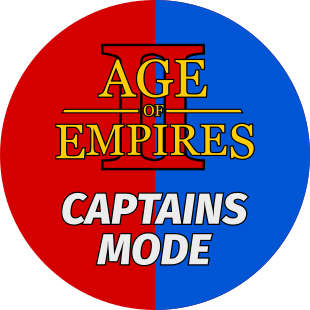
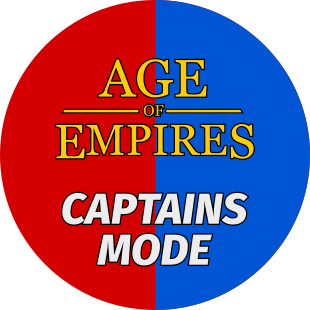
Offer AoE3 and AoE4 civs for presets

diff --git a/src/components/PresetEditor/PresetEditor.tsx b/src/components/PresetEditor/PresetEditor.tsx
@@ -26,6 +26,8 @@ import DraftOption from "../../models/DraftOption";
 import PresetEditorCivSelection from "./PresetEditorCivSelection";
 import PresetEditorCustomOptions from "./PresetEditorCustomOptions";
 import Civilisation from "../../models/Civilisation";
+import Aoe3Civilisation from "../../models/Aoe3Civilisation";
+import Aoe4Civilisation from "../../models/Aoe4Civilisation";
 
 interface Props extends WithTranslation{
     preset: Preset | null,
@@ -36,7 +38,16 @@ interface Props extends WithTranslation{
     onPresetDraftOptionsChange: (value: DraftOption[]) => ISetEditorDraftOptions
 }
 
-class PresetEditor extends React.Component<Props, object> {
+interface State {
+    defaultDraftOptions: DraftOption[]
+}
+
+class PresetEditor extends React.Component<Props, State> {
+
+    constructor(props: Props) {
+        super(props);
+        this.state = {defaultDraftOptions: Civilisation.ALL};
+    }
 
     componentDidMount(): void {
         if (this.props.preset === null || this.props.preset === undefined) {
@@ -56,8 +67,8 @@ class PresetEditor extends React.Component<Props, object> {
                               className="columns is-mobile preset-editor-row"
                               onValueChange={this.props.onValueChange} key={turn.id}/>);
 
-        const customOptions: boolean = !this.props.preset.encodedCivilisations;
-        let optionsSelection = customOptions ? <PresetEditorCustomOptions/> : <PresetEditorCivSelection/>;
+        const customOptions: boolean = this.state.defaultDraftOptions.length === 0;
+        let optionsSelection = customOptions ? <PresetEditorCustomOptions/> : <PresetEditorCivSelection availableOptions={this.state.defaultDraftOptions}/>;
 
         return (
             <React.Fragment>
@@ -65,20 +76,29 @@ class PresetEditor extends React.Component<Props, object> {
                     <h3>1. <Trans i18nKey="presetEditor.availableDraftOptions">Available Draft Options</Trans></h3>
 
                     <p className="control">
-                        <input id="toggleCustomDraftOptions" type="checkbox" name="toggleCustomDraftOptions"
-                               className="switch is-small is-rounded is-info" checked={!customOptions} onChange={() => {
-                            if (customOptions) {
-                                this.props.onPresetDraftOptionsChange(Civilisation.ALL);
-                            } else {
-                                const draftOption = new DraftOption(Civilisation.AZTECS.id, Civilisation.AZTECS.name);
-                                for (let imageUrlsKey in draftOption.imageUrls) {
-                                    draftOption.imageUrls[imageUrlsKey] = 'https://aoe2cm.net' + draftOption.imageUrls[imageUrlsKey];
-                                }
-                                this.props.onPresetDraftOptionsChange([draftOption]);
+                        <button className="button" onClick={()=>{
+                            this.setState({defaultDraftOptions: Civilisation.ALL});
+                            this.props.onPresetDraftOptionsChange([...Civilisation.ALL]);
+                        }}><Trans i18nKey="presetEditor.aoe2Civs">AoE2 civs</Trans></button>
+
+                        <button className="button" onClick={()=>{
+                            this.setState({defaultDraftOptions: Aoe3Civilisation.ALL});
+                            this.props.onPresetDraftOptionsChange([...Aoe3Civilisation.ALL]);
+                        }}><Trans i18nKey="presetEditor.aoe3Civs">AoE3 civs</Trans></button>
+
+                        <button className="button" onClick={()=>{
+                            this.setState({defaultDraftOptions: Aoe4Civilisation.ALL});
+                            this.props.onPresetDraftOptionsChange([...Aoe4Civilisation.ALL]);
+                        }}><Trans i18nKey="presetEditor.aoe4Civs">AoE4 civs</Trans></button>
+
+                        <button className="button" onClick={()=>{
+                            this.setState({defaultDraftOptions: []});
+                            const draftOption = new DraftOption(Civilisation.AZTECS.id, Civilisation.AZTECS.name);
+                            for (let imageUrlsKey in draftOption.imageUrls) {
+                                draftOption.imageUrls[imageUrlsKey] = 'https://aoe2cm.net' + draftOption.imageUrls[imageUrlsKey];
                             }
-                        }}/>
-                        <label htmlFor="toggleCustomDraftOptions" style={{paddingTop: 1}}><Trans
-                            i18nKey='presetEditor.useCivilisationsAsDraftOptions'>Use civilisations</Trans></label>
+                            this.props.onPresetDraftOptionsChange([draftOption]);
+                        }}><Trans i18nKey="presetEditor.customOptions">Custom</Trans></button>
                     </p>
 
                     {optionsSelection}

diff --git a/src/models/Aoe3Civilisation.ts b/src/models/Aoe3Civilisation.ts
@@ -1,0 +1,92 @@
+import DraftOption from "./DraftOption";
+
+enum Name {
+    AZTEC = "aoe3.Aztec",
+    BRITISH = "aoe3.British",
+    CHINESE = "aoe3.Chinese",
+    DUTCH = "aoe3.Dutch",
+    FRENCH = "aoe3.French",
+    GERMAN = "aoe3.German",
+    INCAN = "aoe3.Incan",
+    INDIAN = "aoe3.Indian",
+    HAUDENOSAUNEE = "aoe3.Haudenosaunee",
+    JAPANESE = "aoe3.Japanese",
+    OTTOMAN = "aoe3.Ottoman",
+    PORTUGUESE = "aoe3.Portuguese",
+    RUSSIAN = "aoe3.Russian",
+    LAKOTA = "aoe3.Lakota",
+    SPANISH = "aoe3.Spanish",
+    SWEDISH = "aoe3.Swedish",
+    USA = "aoe3.USA",
+    ETHIOPIANS = "aoe3.Ethiopians",
+    HAUSA = "aoe3.Hausa",
+    MEXICO = "aoe3.Mexico",
+}
+
+class Aoe3Civilisation extends DraftOption {
+
+    public static readonly AZTEC: Aoe3Civilisation = new Aoe3Civilisation(Name.AZTEC);
+    public static readonly BRITISH: Aoe3Civilisation = new Aoe3Civilisation(Name.BRITISH);
+    public static readonly CHINESE: Aoe3Civilisation = new Aoe3Civilisation(Name.CHINESE);
+    public static readonly DUTCH: Aoe3Civilisation = new Aoe3Civilisation(Name.DUTCH);
+    public static readonly FRENCH: Aoe3Civilisation = new Aoe3Civilisation(Name.FRENCH);
+    public static readonly GERMAN: Aoe3Civilisation = new Aoe3Civilisation(Name.GERMAN);
+    public static readonly INCAN: Aoe3Civilisation = new Aoe3Civilisation(Name.INCAN);
+    public static readonly INDIAN: Aoe3Civilisation = new Aoe3Civilisation(Name.INDIAN);
+    public static readonly HAUDENOSAUNEE: Aoe3Civilisation = new Aoe3Civilisation(Name.HAUDENOSAUNEE);
+    public static readonly JAPANESE: Aoe3Civilisation = new Aoe3Civilisation(Name.JAPANESE);
+    public static readonly OTTOMAN: Aoe3Civilisation = new Aoe3Civilisation(Name.OTTOMAN);
+    public static readonly PORTUGUESE: Aoe3Civilisation = new Aoe3Civilisation(Name.PORTUGUESE);
+    public static readonly RUSSIAN: Aoe3Civilisation = new Aoe3Civilisation(Name.RUSSIAN);
+    public static readonly LAKOTA: Aoe3Civilisation = new Aoe3Civilisation(Name.LAKOTA);
+    public static readonly SPANISH: Aoe3Civilisation = new Aoe3Civilisation(Name.SPANISH);
+    public static readonly SWEDISH: Aoe3Civilisation = new Aoe3Civilisation(Name.SWEDISH);
+    public static readonly USA: Aoe3Civilisation = new Aoe3Civilisation(Name.USA);
+    public static readonly ETHIOPIANS: Aoe3Civilisation = new Aoe3Civilisation(Name.ETHIOPIANS);
+    public static readonly HAUSA: Aoe3Civilisation = new Aoe3Civilisation(Name.HAUSA);
+    public static readonly MEXICO: Aoe3Civilisation = new Aoe3Civilisation(Name.MEXICO);
+
+
+
+    // DO NOT CHANGE THE ORDER OF ELEMENTS IN THIS ARRAY!!!
+    // ONLY APPEND NEW CIVILISATIONS AT THE END!!!
+    public static readonly ALL = [
+        Aoe3Civilisation.AZTEC,
+        Aoe3Civilisation.BRITISH,
+        Aoe3Civilisation.CHINESE,
+        Aoe3Civilisation.DUTCH,
+        Aoe3Civilisation.FRENCH,
+        Aoe3Civilisation.GERMAN,
+        Aoe3Civilisation.INDIAN,
+        Aoe3Civilisation.INCAN,
+        Aoe3Civilisation.HAUDENOSAUNEE,
+        Aoe3Civilisation.JAPANESE,
+        Aoe3Civilisation.OTTOMAN,
+        Aoe3Civilisation.PORTUGUESE,
+        Aoe3Civilisation.RUSSIAN,
+        Aoe3Civilisation.LAKOTA,
+        Aoe3Civilisation.SPANISH,
+        Aoe3Civilisation.SWEDISH,
+        Aoe3Civilisation.USA,
+        Aoe3Civilisation.ETHIOPIANS,
+        Aoe3Civilisation.HAUSA,
+        Aoe3Civilisation.MEXICO,
+    ];
+
+    private constructor(name: Name) {
+        super(name, name, Aoe3Civilisation.defaultImageUrlsForCivilisation(name));
+    }
+
+    public static defaultImageUrlsForCivilisation(name: string) {
+        return {
+            unit: `/images/aoe3/flag/${name}.png`,
+            emblem: `/images/aoe3/flag/${name}.png`,
+            animated_left: `/images/aoe3/flag/${name}.png`,
+            animated_right: `/images/aoe3/flag/${name}.png`,
+        }
+    }
+
+}
+
+export default Aoe3Civilisation;
+export {Name};

diff --git a/src/models/Aoe4Civilisation.ts b/src/models/Aoe4Civilisation.ts
@@ -1,0 +1,56 @@
+import DraftOption from "./DraftOption";
+
+enum Name {
+    RUS = "aoe4.Rus",
+    HOLY_ROMAN_EMPIRE = "aoe4.HolyRomanEmpire",
+    CHINESE = "aoe4.Chinese",
+    ENGLISH = "aoe4.English",
+    DELHI_SULTANATE = "aoe4.DelhiSultanate",
+    MONGOLS = "aoe4.Mongols",
+    ABBASID_DYNASTY = "aoe4.AbbasidDynasty",
+    FRENCH = "aoe4.French",
+}
+
+class Aoe4Civilisation extends DraftOption {
+
+    public static readonly RUS: Aoe4Civilisation = new Aoe4Civilisation(Name.RUS);
+    public static readonly HOLY_ROMAN_EMPIRE: Aoe4Civilisation = new Aoe4Civilisation(Name.HOLY_ROMAN_EMPIRE);
+    public static readonly CHINESE: Aoe4Civilisation = new Aoe4Civilisation(Name.CHINESE);
+    public static readonly ENGLISH: Aoe4Civilisation = new Aoe4Civilisation(Name.ENGLISH);
+    public static readonly DELHI_SULTANATE: Aoe4Civilisation = new Aoe4Civilisation(Name.DELHI_SULTANATE);
+    public static readonly MONGOLS: Aoe4Civilisation = new Aoe4Civilisation(Name.MONGOLS);
+    public static readonly ABBASID_DYNASTY: Aoe4Civilisation = new Aoe4Civilisation(Name.ABBASID_DYNASTY);
+    public static readonly FRENCH: Aoe4Civilisation = new Aoe4Civilisation(Name.FRENCH);
+
+
+
+    // DO NOT CHANGE THE ORDER OF ELEMENTS IN THIS ARRAY!!!
+    // ONLY APPEND NEW CIVILISATIONS AT THE END!!!
+    public static readonly ALL = [
+        Aoe4Civilisation.RUS,
+        Aoe4Civilisation.HOLY_ROMAN_EMPIRE,
+        Aoe4Civilisation.CHINESE,
+        Aoe4Civilisation.ENGLISH,
+        Aoe4Civilisation.DELHI_SULTANATE,
+        Aoe4Civilisation.MONGOLS,
+        Aoe4Civilisation.ABBASID_DYNASTY,
+        Aoe4Civilisation.FRENCH,
+    ];
+
+    private constructor(name: Name) {
+        super(name, name, Aoe4Civilisation.defaultImageUrlsForCivilisation(name));
+    }
+
+    public static defaultImageUrlsForCivilisation(name: string) {
+        return {
+            unit: `/images/aoe4/flag/${name}.png`,
+            emblem: `/images/aoe4/flag/${name}.png`,
+            animated_left: `/images/aoe4/flag/${name}.png`,
+            animated_right: `/images/aoe4/flag/${name}.png`,
+        }
+    }
+
+}
+
+export default Aoe4Civilisation;
+export {Name};

diff --git a/src/components/menu/Footer.tsx b/src/components/menu/Footer.tsx
@@ -7,7 +7,7 @@ class Footer extends React.Component<object, object> {
             <footer className="footer px-4 py-6">
                 <div className="container">
                     <div className="columns">
-                        <div className="column is-half content is-small mb-0">
+                        <div className="column is-two-thirds content is-small mb-0">
                             <p>
                                 Created by <a href="https://siegeengineers.org">
                                 <img alt='SiegeEngineers logo' className='inline-logo'
@@ -18,14 +18,15 @@ class Footer extends React.Component<object, object> {
                                 Based on the first version by <span className='is-family-code'>pip</span>
                             </p>
                             <p>
-                                Age of Empires II &copy; Microsoft Corporation. <b>Captains Mode for Age of Empires
-                                II</b> was created under Microsoft's "<a
+                                Age of Empires &copy; Microsoft Corporation. <b>Captains Mode for Age of Empires</b> was
+                                created under Microsoft's "<a
                                 href="https://www.xbox.com/en-us/developers/rules" rel='nofollow'>
-                                Game Content Usage Rules</a>" using assets from Age of Empires II, and it is not
+                                Game Content Usage Rules</a>" using assets from Age of Empires II, Age of Empires III,
+                                and Age of Empires IV, and it is not
                                 endorsed by or affiliated with Microsoft.
                             </p>
                         </div>
-                        <div className="column is-half">
+                        <div className="column is-one-third">
                             <nav className="breadcrumb is-small is-right has-bullet-separator"
                                  aria-label="footer links">
                                 <ul>

diff --git a/src/components/PresetEditor/PresetEditorCivSelection.tsx b/src/components/PresetEditor/PresetEditorCivSelection.tsx
@@ -4,7 +4,6 @@ import * as actions from "../../actions";
 import {ISetEditorDraftOptions} from "../../actions";
 import {PresetOptionCheckbox} from "./PresetOptionCheckbox";
 import {withTranslation, WithTranslation} from "react-i18next";
-import Civilisation from "../../models/Civilisation";
 import DraftOption from "../../models/DraftOption";
 import {ApplicationState} from "../../types";
 import {Dispatch} from "redux";
@@ -12,7 +11,8 @@ import {connect} from "react-redux";
 
 interface Props extends WithTranslation {
     preset: Preset | null,
-    onPresetDraftOptionsChange: (value: DraftOption[]) => ISetEditorDraftOptions
+    availableOptions: DraftOption[],
+    onPresetDraftOptionsChange: (value: DraftOption[]) => ISetEditorDraftOptions,
 }
 
 class PresetEditorCivSelection extends React.Component<Props, object> {
@@ -24,7 +24,7 @@ class PresetEditorCivSelection extends React.Component<Props, object> {
 
         const presetOptions = this.props.preset.options;
 
-        const civs = Civilisation.ALL.map((value: Civilisation, index: number) =>
+        const civs = this.props.availableOptions.map((value: DraftOption, index: number) =>
             <PresetOptionCheckbox presetOptions={presetOptions} value={value}
                                   key={index}
                                   disabled={false}

diff --git a/src/components/menu/Menu.tsx b/src/components/menu/Menu.tsx
@@ -20,10 +20,10 @@ class Menu extends React.Component<WithTranslation, object> {
                 <div className="container is-desktop">
                     <Modal/>
                     <div className="has-text-centered pb-5">
-                        <img src="/images/aoe2cm2.png" alt="AoE II - Captains Mode Logo"/>
+                        <img src="/images/aoe2cm2.png" alt="Age of Empires - Captains Mode Logo"/>
                     </div>
                     <div className="has-text-centered">
-                        <h1 className="title is-hidden">Age of Empires II</h1>
+                        <h1 className="title is-hidden">Age of Empires</h1>
                         <h2 className="subtitle is-hidden">Captains Mode</h2>
                     </div>
                     <div className="tabs is-centered">

diff --git a/src/components/menu/NavBar.tsx b/src/components/menu/NavBar.tsx
@@ -11,7 +11,7 @@ class NavBar extends React.Component<WithTranslation, object> {
         return (
             <nav className="navbar is-flex-touch" role="navigation" aria-label="main navigation">
                 <div className="navbar-brand">
-                    <h1 className="navbar-item"><Link to={"/"}>Captains Mode for Age of Empires II</Link></h1>
+                    <h1 className="navbar-item"><Link to={"/"}>Captains Mode for Age of Empires</Link></h1>
                 </div>
                 <div className="navbar-end is-flex-touch">
                     <div className="navbar-item">

diff --git a/README.md b/README.md
@@ -1,10 +1,10 @@
-# Captains Mode for Age of Empires II
+# Captains Mode for Age of Empires
 
 This is a recreation of the original [aoe2cm by pip](https://github.com/aocpip/aoe2cm) 
 with additional features such as snipe turns and user generated presets.
 
-Age of Empires II © Microsoft Corporation.
-**Captains Mode for Age of Empires II** was created under Microsoft's "[Game Content Usage Rules](https://www.xbox.com/en-us/developers/rules)" using assets from Age of Empires II,
+Age of Empires © Microsoft Corporation.
+**Captains Mode for Age of Empires** was created under Microsoft's "[Game Content Usage Rules](https://www.xbox.com/en-us/developers/rules)" using assets from Age of Empires II, Age of Empires III, and Age of Empires IV,
 and it is not endorsed by or affiliated with Microsoft.
 
 
